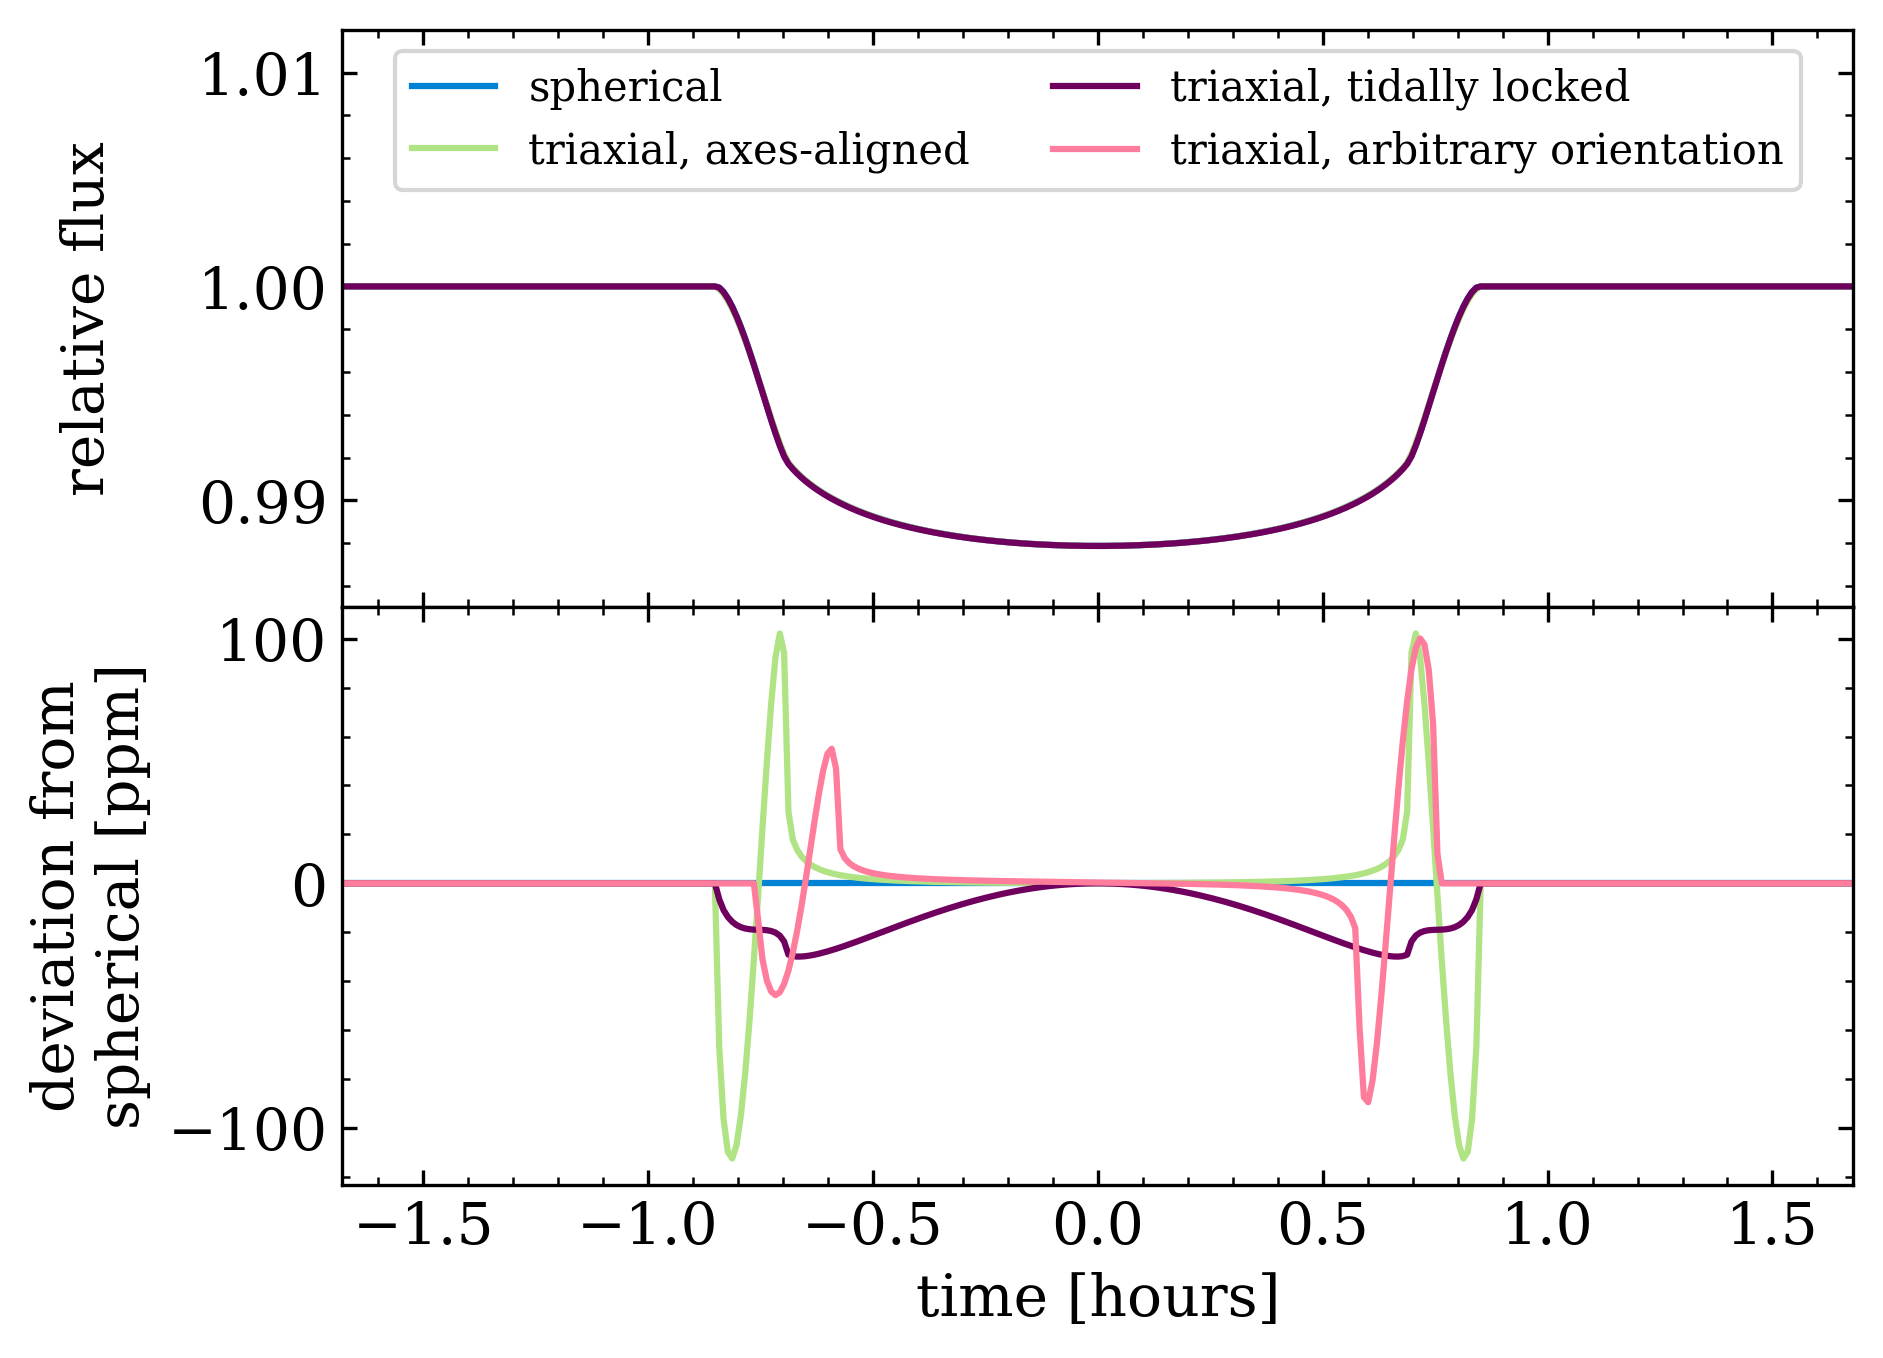
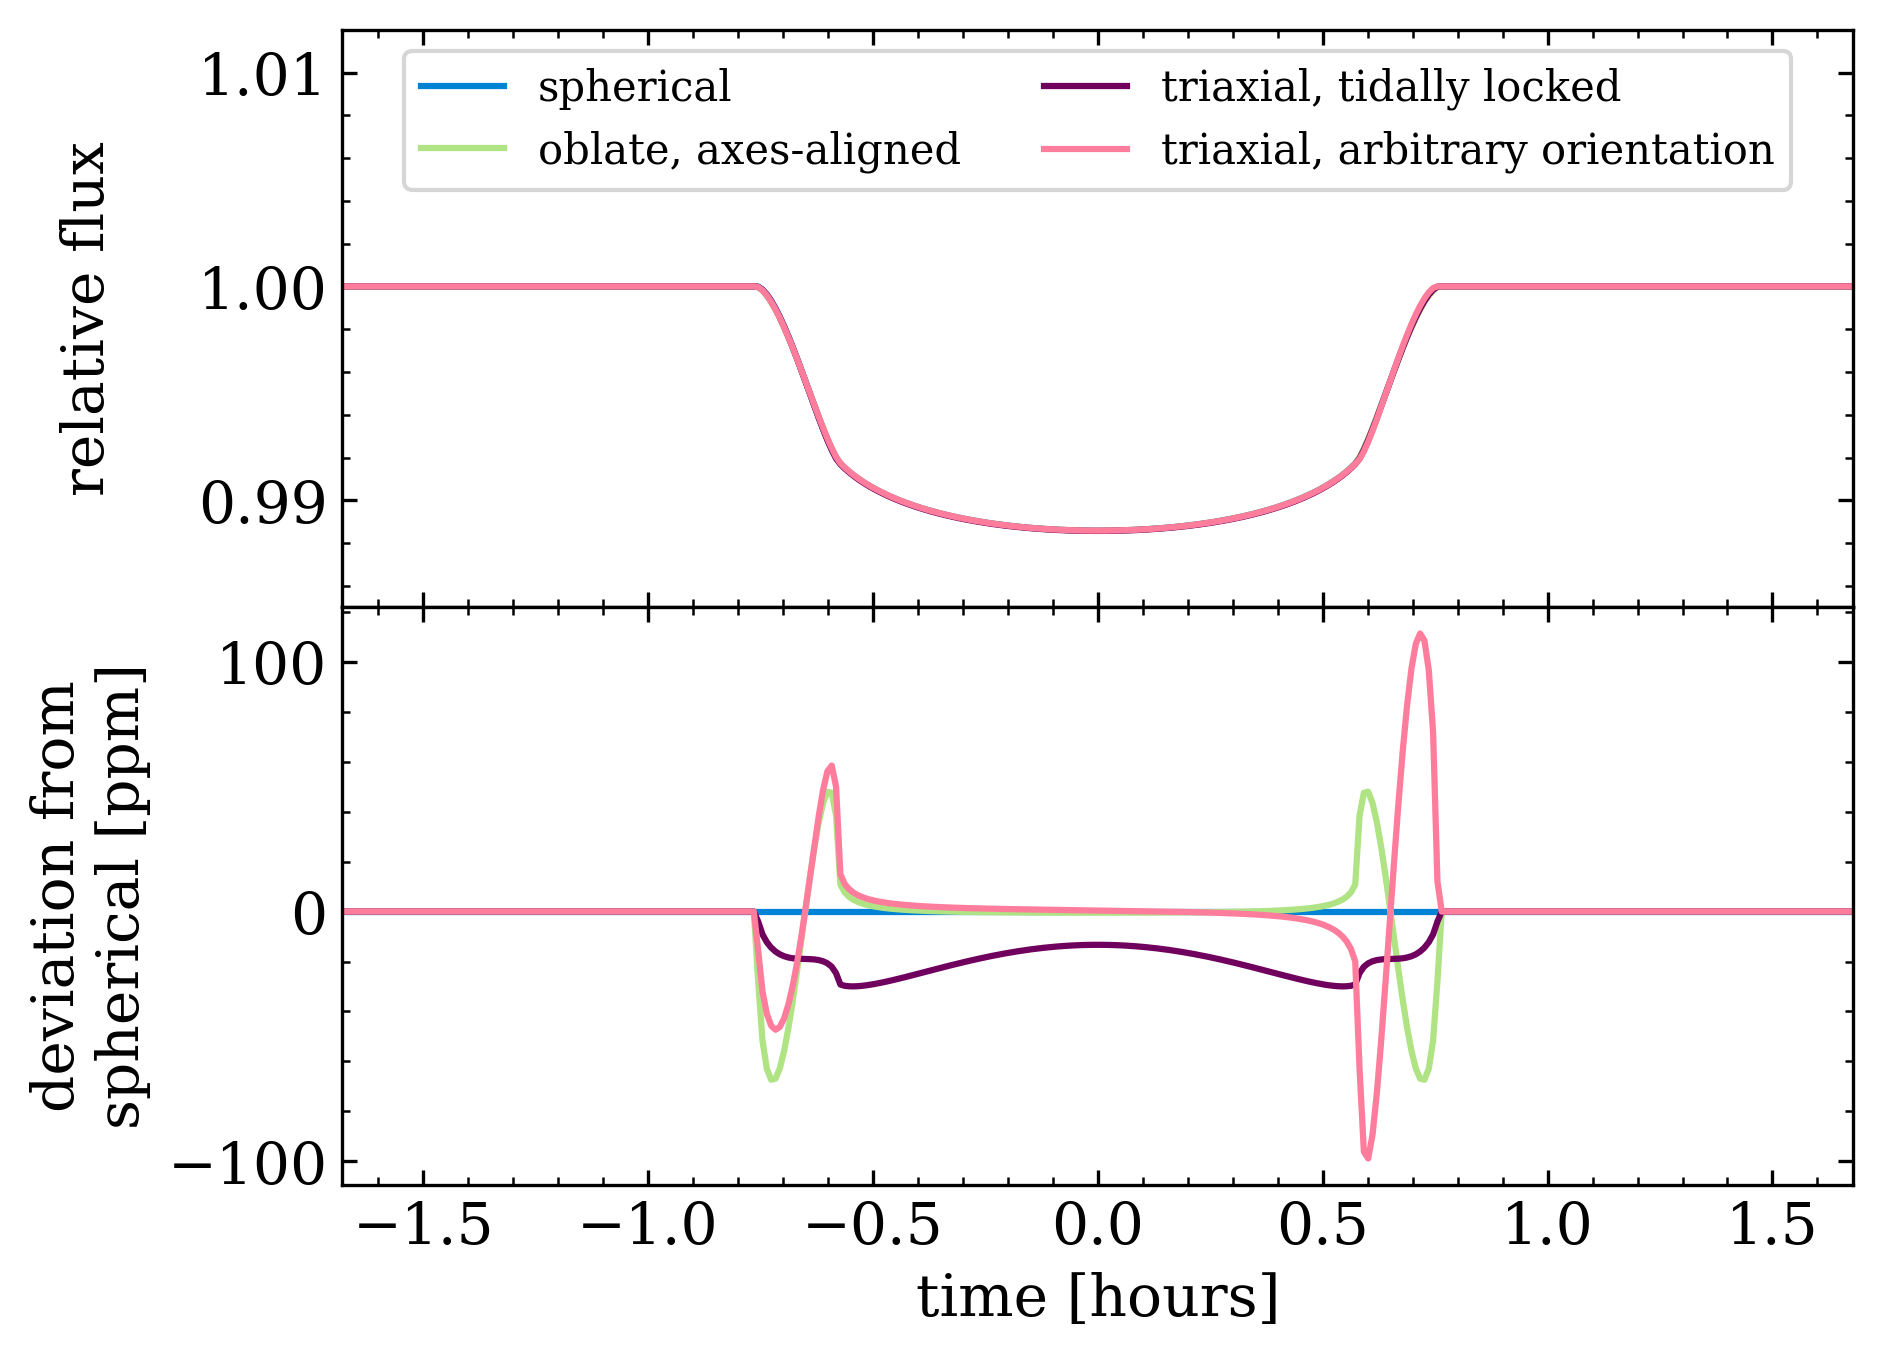
paper fig edits

diff --git a/joss/figure.py b/joss/figure.py
@@ -1,0 +1,99 @@
+import jax
+
+jax.config.update("jax_enable_x64", True)
+import jax.numpy as jnp
+import matplotlib.pyplot as plt
+from squishyplanet import OblateSystem
+
+
+if __name__ == "__main__":
+    state = {
+        "t_peri": -0.25,
+        "times": jnp.linspace(-0.1, 0.1, 500),
+        "a": 5.0,
+        "period": 1.0,
+        "r": 0.1,
+        "i": jnp.pi / 2 - 0.1,
+        "ld_u_coeffs": jnp.array([0.4, 0.26]),
+        "tidally_locked": False,
+    }
+
+    spherical_planet = OblateSystem(**state)
+
+    state["f1"] = 0.1
+    state["f2"] = 0.1
+    state["r"] = state["r"] / jnp.sqrt(1 - state["f1"])
+    triaxial_planet = OblateSystem(**state)
+
+    state["tidally_locked"] = True
+    state["r"] = 0.1 / jnp.sqrt(1 - state["f1"]) / jnp.sqrt(1 - state["f2"])
+    locked_planet = OblateSystem(**state)
+
+    state["tidally_locked"] = False
+    state["obliq"] = jnp.pi / 3
+    state["prec"] = 0.3
+    rolled_planet = OblateSystem(**state)
+    eff = rolled_planet.state["effective_projected_r"][0]
+    state["r"] *= 0.1 / eff
+    rolled_planet = OblateSystem(**state)
+
+    spherical_lc = spherical_planet.lightcurve()
+    triaxial_lc = triaxial_planet.lightcurve()
+    locked_lc = locked_planet.lightcurve()
+    rolled_lc = rolled_planet.lightcurve()
+
+    colors = ["#0082d5", "#b0e384", "#70005e", "#ff7d9c"]
+
+    fig, axs = plt.subplots(nrows=2, sharex=True, figsize=(6.5, 5))
+    axs[0].plot(
+        spherical_planet.state["times"] * 24,
+        spherical_lc,
+        label="spherical",
+        c=colors[0],
+    )
+    axs[0].plot(
+        spherical_planet.state["times"] * 24,
+        triaxial_lc,
+        label="oblate, axes-aligned",
+        c=colors[1],
+    )
+    axs[0].plot(
+        spherical_planet.state["times"] * 24,
+        locked_lc,
+        label="triaxial, tidally locked",
+        c=colors[2],
+    )
+    axs[0].plot(
+        spherical_planet.state["times"] * 24,
+        rolled_lc,
+        label="triaxial, arbitrary orientation",
+        c=colors[3],
+    )
+    axs[0].set(ylim=(0.985, 1.012), ylabel="relative flux\n")
+    axs[0].legend(ncols=2, prop={"size": 10}, loc="upper center")
+
+    axs[1].plot(spherical_planet.state["times"] * 24, spherical_lc * 0.0, c=colors[0])
+    axs[1].plot(
+        spherical_planet.state["times"] * 24,
+        (triaxial_lc - spherical_lc) * 1e6,
+        c=colors[1],
+    )
+    axs[1].plot(
+        spherical_planet.state["times"] * 24,
+        (locked_lc - spherical_lc) * 1e6,
+        c=colors[2],
+    )
+    axs[1].plot(
+        spherical_planet.state["times"] * 24,
+        (rolled_lc - spherical_lc) * 1e6,
+        c=colors[3],
+    )
+
+    axs[1].set(
+        xlabel="time [hours]",
+        ylabel="deviation from\nspherical [ppm]",
+        xlim=(-0.07 * 24, 0.07 * 24),
+    )
+    fig.subplots_adjust(hspace=0)
+
+    plt.savefig("deviations.png", dpi=300, bbox_inches="tight")

diff --git a/joss/paper.md b/joss/paper.md
@@ -46,11 +46,11 @@ Although during their analyses of observations astronomers often assume that exo
 
 # Statement of need
 
-The study of exoplanets, or planets that orbit stars beyond the sun, is a major focus of the astronomy community. One of the most common and powerful types of data used in this process is timeseries photometric (or spectroscopic) observations collected when a planet happens to pass through the line of sight between an observer and its host star. By modeling the fraction of starlight intercepted by the coincident planet, astronomers can deduce basic properties of the system such as the planet's relative size, its orbital period, and its orbital inclination.
+The study of exoplanets, or planets that orbit stars beyond the sun, is a major focus of the astronomy community. One of the most widely-used datatypes used in these studies is timeseries photometric (or spectroscopic) observations collected when a planet happens to pass through the line of sight between an observer and its host star. By modeling the fraction of starlight intercepted by the coincident planet, astronomers can deduce basic properties of the system such as the planet's relative size, its orbital period, and its orbital inclination.
 
 The past 20 years have seen extensive work both on theoretical model development and computationally efficient implementations of these models. Notable examples include @mandel_agol, @batman, and @exoplanet, though many other examples can be found. Though each of these packages make different choices, the majority of them (with notable exceptions, including @ellc) do share one common assumption: the planet under examination is a perfect sphere.
 
-This is both a reasonable and immensely practical assumption. It is reasonable because firstly, a substantial fraction of planets, especially rocky planets, are likely quite close to perfect spheres (Earth's equatorial radius is only 43 km greater than its polar radius, a difference of 0.3%). Secondly, at the precision of most survey datasets (e.g. *Kepler* and *TESS*), even substantially flattened planets would be nearly indistinguishable from a spherical planet with the same on-sky projected area. It is practical since, somewhat miraculously, this assumption enables an analytic solution for the amount of flux blocked by the planet at each timestep. This is true even if the intensity of the stellar surface varies radially according to a nearly arbitrarily complex polynomial [@alfm].
+This is both a reasonable and immensely practical assumption. It is reasonable because firstly, a substantial fraction of planets, especially rocky planets, are likely quite close to perfect spheres (Earth's equatorial radius is only 43 km greater than its polar radius, a difference of 0.3%). Secondly, at the precision of most survey datasets (e.g. *Kepler* and *TESS*), even substantially flattened planets would be nearly indistinguishable from a spherical planet with the same on-sky projected area [@zhu2014]. It is practical since, somewhat miraculously, this assumption enables an analytic solution for the amount of flux blocked by the planet at each timestep. This is true even if the intensity of the stellar surface varies radially according to a nearly arbitrarily complex polynomial [@alfm].
 
 However, for a small but growing number of datasets and targets, the reasonableness of this assumption will break down and lead to biased results. Many gas giant planets, in particular, are expected to be distinctly oblate or triaxial, either due to the effects of tidal deformation or rapid rotation. Looking within our own solar system, Jupiter and Saturn have oblateness values of roughly 0.06 and 0.1, respectively, due to their fast spins.
 
@@ -58,7 +58,7 @@ To illustrate the effects of shape deformation on a lightcurve, consider \autore
 
 ![A sampling differences between spherical and non-spherical planets during their transits. A fuller description of how each of these curves were generated can be found in the [online documentation](https://squishyplanet.readthedocs.io/en/latest/tutorials/create_a_lightcurve.html).\label{fig:example}](deviations.png)
 
-The amplitudes of these effects are quite small compared to the full depth of the transit, but could be easily detectable with a facility such as JWST, which now routinely achieves a white-light precision of a few 10s of ppm [@ERS_prism].
+The amplitudes of these effects are quite small compared to the full depth of the transit, but could be easily detectable with a facility such as JWST, which is capable of a white-light precision of a few 10s of ppm [@ERS_prism].
 
 We leave a detailed description of the mathematics and a corresponding series of visualizations for the online documentation. There we also include confirmation that our implementation, when modeling the limiting case of a spherical planet, agrees with previous well-tested models even for high-order polynomial limb darkening laws. More specifically, we show that that lightcurves of spherical planets generated with `squishyplanet` deviate by no more than 100 ppb from those generated with  `jaxoplanet` [@jaxoplanet], the `JAX`-based rewrite of the popular transit modeling package `exoplanet` [@exoplanet] that also implements the arbitrary-order polynomial limb darkening algorithm presented in @alfm. Finally, we demonstrate `squishyplanet`'s limited support for phase curve modeling. 
 
